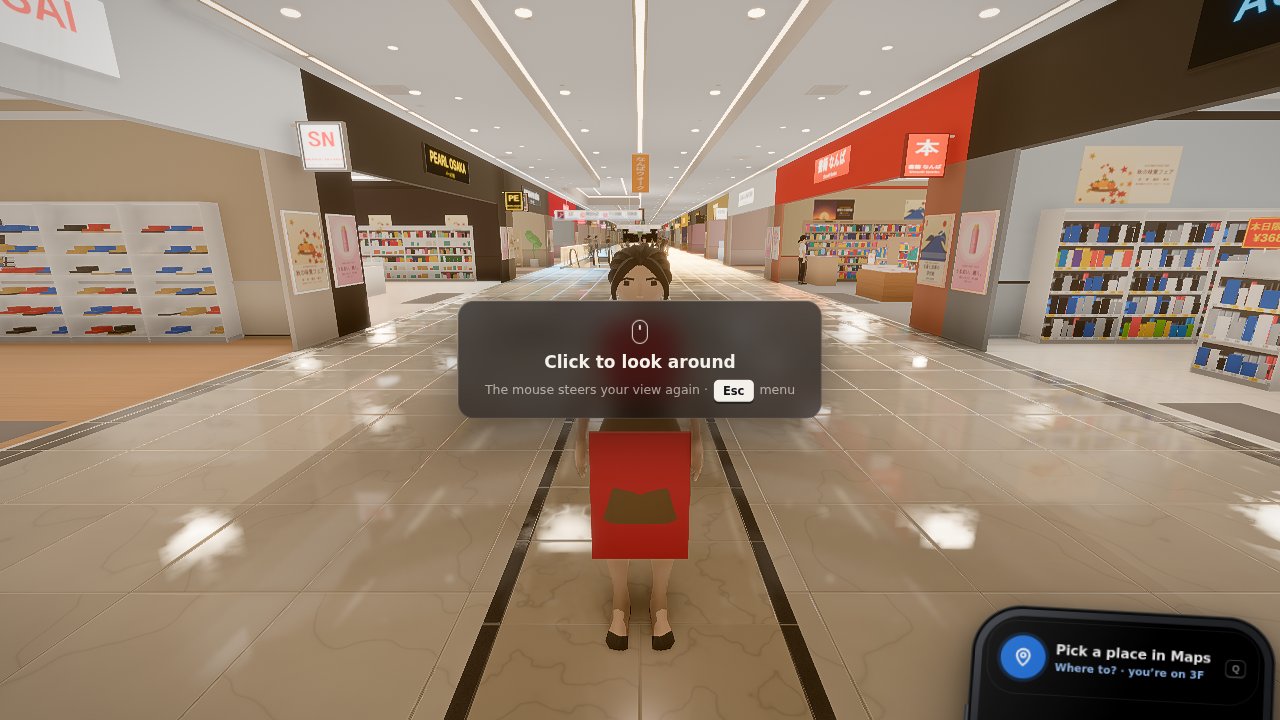
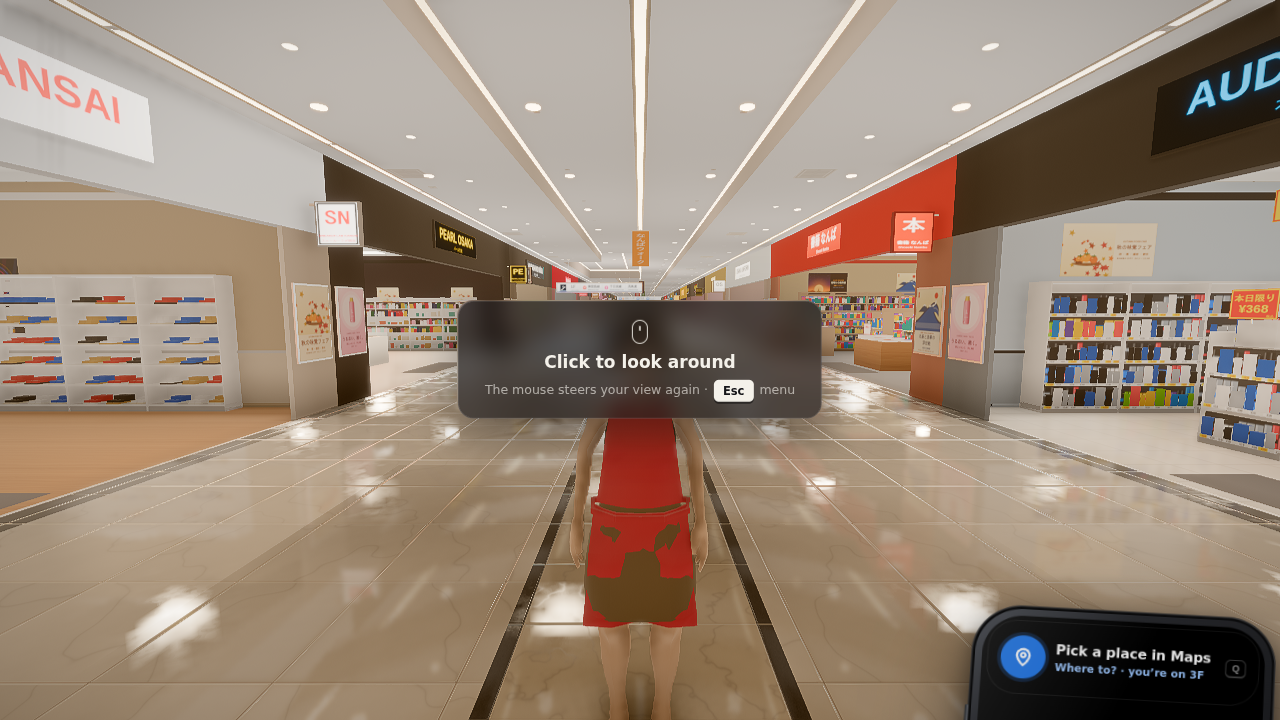
WIP v8 checkpoint
Claude-Session: https://claude.ai/code/session_01DFPWmVZjWP3RarZo2JLFjj

diff --git a/namba-demo/js/npc/humans.js b/namba-demo/js/npc/humans.js
@@ -586,7 +586,14 @@ export class HumanLibrary {
     {
       const yW = hips.y + 0.07, yHem = hips.y - 0.4, yTop = chest.y + 0.1;   // waist, hem (mid-thigh), bib top (below the collarbone)
       // foremost z at (x, y); the legs leave a gap at x = 0 below the crotch, so widen the search sideways until something is found
-      const fz = (x, y, fb) => { for (const dx of [0, 0.03, -0.03, 0.06, -0.06, 0.09, -0.09]) { const r = body.front(x + dx, y, null); if (r !== null) return r; } return fb; };
+      const fz = (x, y, fb) => {
+        for (const dx of [0, 0.03, -0.03, 0.06, -0.06, 0.09, -0.09]) {
+          let r = null;   // the surface is sampled from mesh vertices (sparse on dresses / coats): take the foremost of three heights
+          for (const dy of [0, 0.045, -0.045]) { const q = body.front(x + dx, y + dy, null); if (q !== null && (r === null || q > r)) r = q; }
+          if (r !== null) return r;
+        }
+        return fb;
+      };
       // a slab panel from yA (top) to yB (bottom): half width hwA -> hwB, standing off the surface by offA -> offB, thick t
       const panel = (bone, yA, yB, hwA, hwB, offA, offB, fb, nx = 6, ny = 5, t = 0.009) => {
         const g = new THREE.BoxGeometry(1, 1, 1, nx, ny, 1), pp = g.attributes.position;
@@ -605,8 +612,8 @@ export class HumanLibrary {
         parts.push({ bit: BIT.APRON, bone, mat: A.acc2, g, c: [0, 0, 0], r: [0, 0, 0] });
         return zs;
       };
-      const zb = panel('Chest', yTop, yW + 0.03, 0.105, 0.155, 0.012, 0.016, chest.z + chestZ, 6, 5);        // bib
-      const zk = panel('Hips', yW + 0.005, yHem, 0.168, 0.205, 0.016, 0.03, hips.z + hipZ, 8, 6);            // skirt (flared)
+      const zb = panel('Chest', yTop, yW + 0.03, 0.105, 0.155, 0.016, 0.02, chest.z + chestZ, 6, 5);        // bib
+      const zk = panel('Hips', yW + 0.005, yHem, 0.168, 0.205, 0.022, 0.04, hips.z + hipZ, 8, 6);            // skirt (flared)
       // waist tie: a band across the skirt top, side ties round the flanks to a back bow
       const bw = (x, y, o) => v3(x, y, fz(x, y, hips.z + hipZ) + o);
       const wb = yW - 0.012;
